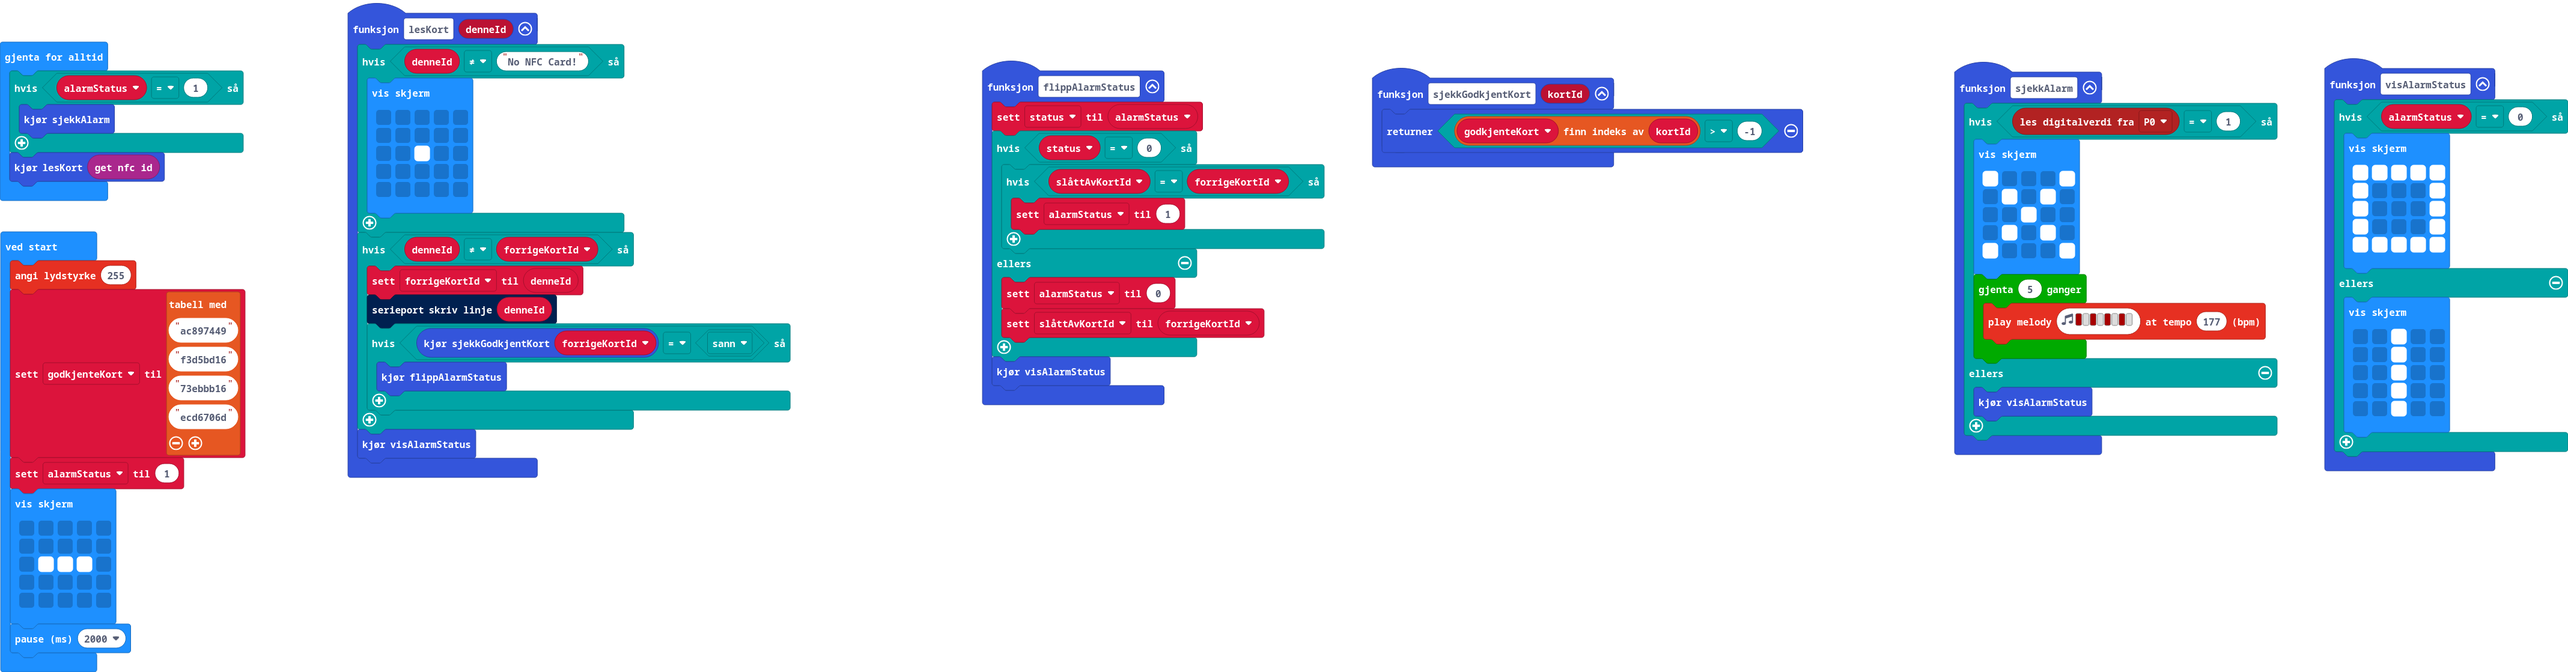
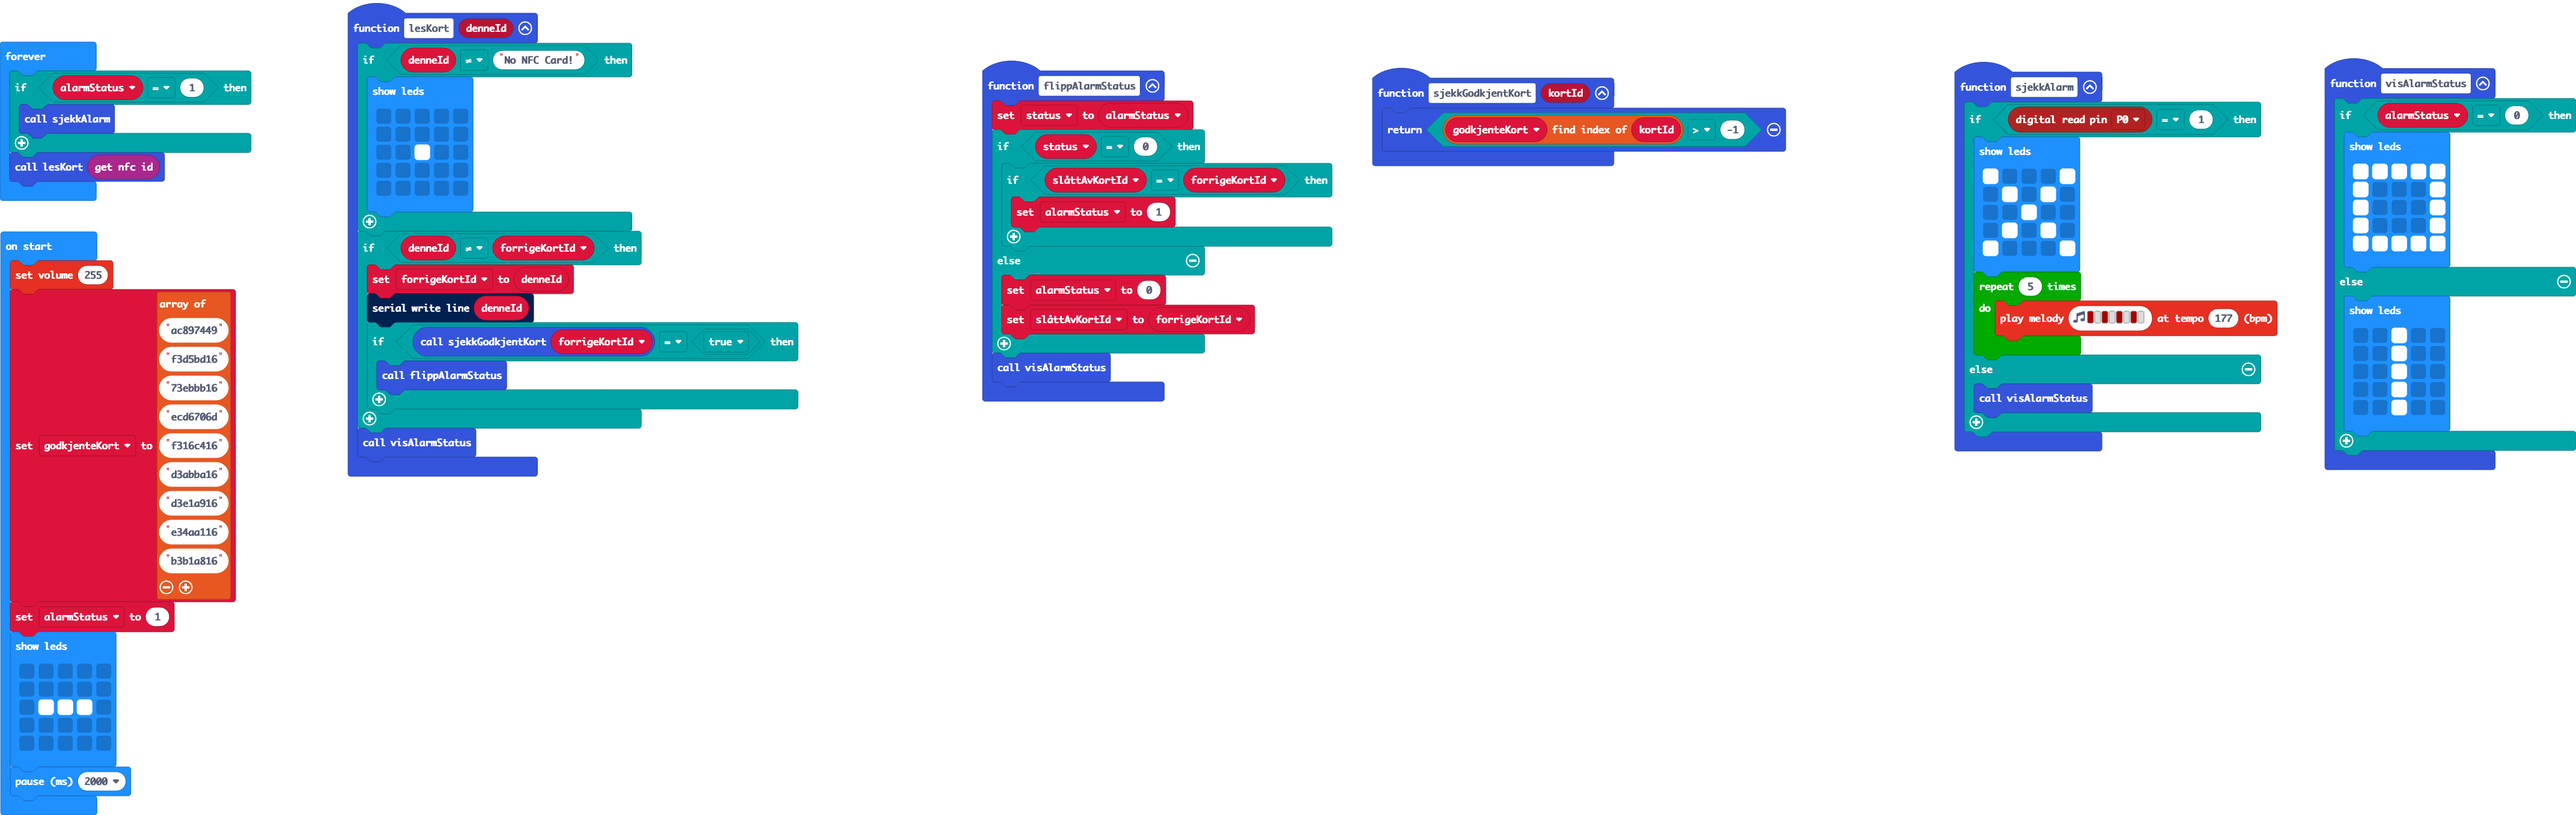
Missing IDs

Changed region(s): [[0.0, 0.0, 0.3112, 1.0], [0.7468, 0.0608, 1.0, 0.6988], [0.3734, 0.0608, 0.7157, 0.6077]]

diff --git a/main.ts b/main.ts
@@ -77,7 +77,12 @@ godkjenteKort = [
 "ac897449",
 "f3d5bd16",
 "73ebbb16",
-"ecd6706d"
+"ecd6706d",
+"f316c416",
+"d3abba16",
+"d3e1a916",
+"e34aa116",
+"b3b1a816"
 ]
 alarmStatus = 1
 basic.showLeds(`
